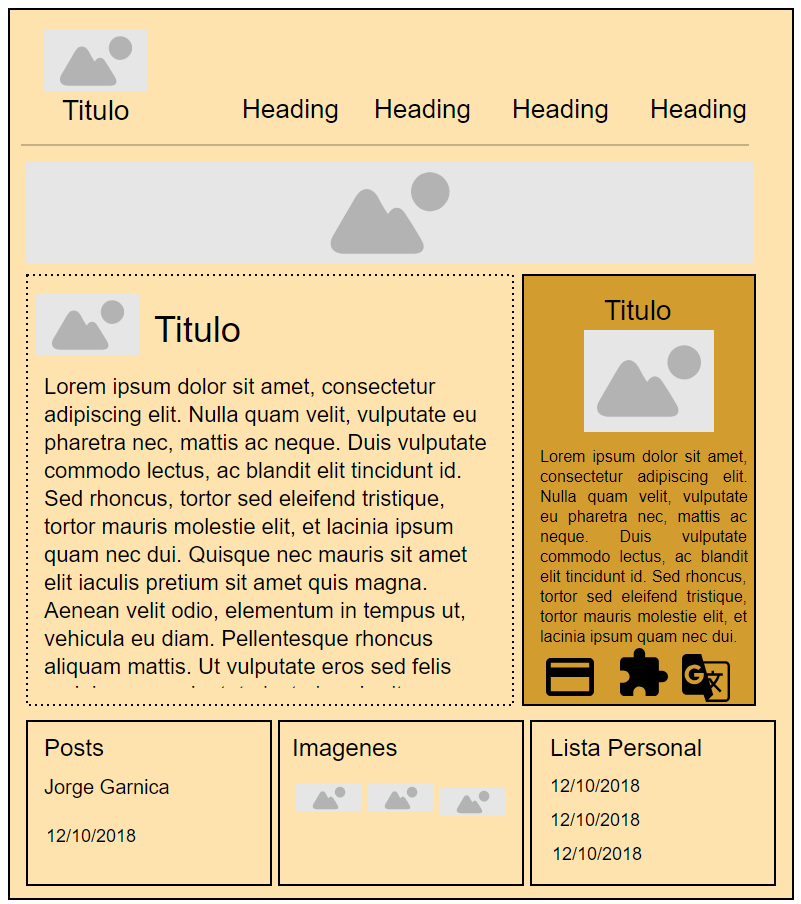
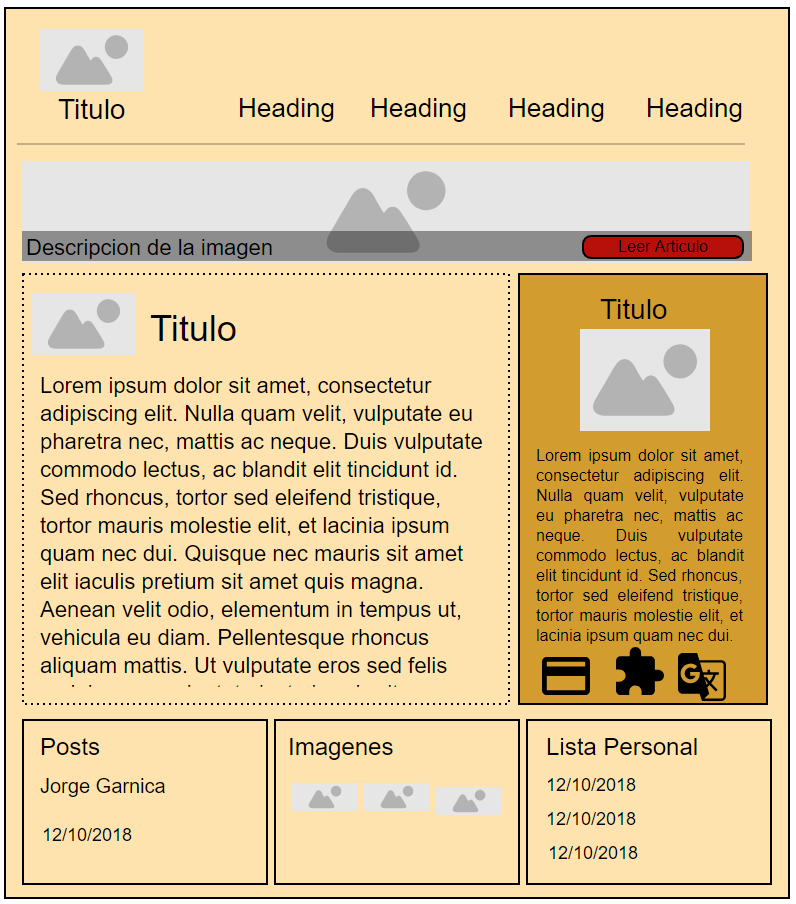
Armar el Esqueleto en HTML
- Se procedió a armar el esqueleto completo en HTML.
- Se subieron las imagenes del proyecto
- Se modificó el prorotipo.
-

Changed region(s): [[0.0, 0.0, 0.995, 1.0], [0.7839, 0.3407, 0.8442, 0.3717], [0.9648, 0.0, 0.995, 0.031]]

diff --git a/index.html b/index.html
@@ -1,10 +1,70 @@
 <!DOCTYPE html>
 <html>
 <head>
-	<title>Titulo</title>
+	<title>Tecsup - Página Inicial</title>
 	<link rel="stylesheet" type="text/css" href="css/estilos.css">
 </head>
 <body>
-	<h1></h1>
+	<div id="contenido">
+		<header>
+			<div id="logo">
+				<img src="imagenes/logo.png" id="imagen" alt="Logo de la pagina">
+				<h1>Tecsup</h1>
+				<h2>Profesionales en Ingeniería</h2>
+			</div>
+			<nav>
+				<ul>
+					<li><a href="">Inicio</a></li>
+					<li><a href="">BLog</a></li>
+					<li><a href="">Resumen</a></li>
+					<li><a href="">Contacto</a></li>
+				<ul>
+			</nav>	
+		</header>
+		<div id="banner">
+			<div id="texto_banner">
+				Puente de San Francisco
+				<a href="" class="boton_rojo">Leer Articulo <img src="imagenes/small_arrow.png"></a>
+			</div>
+		</div>
+		<section>
+			<article>
+				<h1><img src="imagenes/pin.png" alt="imagen del articulo" class="art_img">Tecsup Apertura CodiGo</h1>
+				<p>Lorem ipsum dolor sit amet, consectetur adipisicing elit, sed do eiusmod 				tempor incididunt ut labore et dolore magna aliqua. Ut enim  d minim veniam, 				quis nostrud exercitation ullamco laboris nisi ut aliquip ex ea commodo 				consequat. Duis aute irure dolor in reprehenderit in voluptate velit esse				cillum dolore eu fugiat nulla pariatur. Excepteur sint occaecat cupidatat non
+				proident, sunt in culpa qui officia deserunt mollit anim id est laborum.</p>
+			</article>
+			<aside>
+				<h1>A cerca del Autor</h1>
+				<p id="imagen_autor"><img src="imagenes/arrow.png" alt="imagen del autor"></p>
+				<p>Lorem ipsum dolor sit amet, consectetur adipisicing elit, sed do eiusmod
+				tempor incididunt ut labore et dolore magna aliqua. Ut enim ad minim veni</p>
+				<p>Lorem ipsum dolor sit amet, consectetur adipisicing elit, sed do eiusmod
+				tempor incididunt ut labore et dolore magna aliqua. Ut enim ad minim veni</p>
+				<p><img src="imagenes/facebook.png" alt="facebook"><img src="imagenes/vimeo.png" alt="vimeo"></p>
+			</aside>
+		</section>
+		<footer>
+			<div id="posts">
+				<h1>Posts</h1>
+				<p>Su Nombre</p>
+				<p>12/10 12:50pm</p>
+			</div>
+			<div id="fotos">
+				<h1>Mis Fotos</h1>
+				<ul>
+					<li><a href=""></a></li>
+					<li><a href=""></a></li>
+					<li><a href=""></a></li>
+				</ul>
+			</div>
+			<div id="telefonos">
+				<ul>
+					<li>97412332</li>
+					<li>97412332</li>
+					<li>97412332</li>
+				</ul>
+			</div>
+		</footer>
+	</div>
 </body>
 </html>
